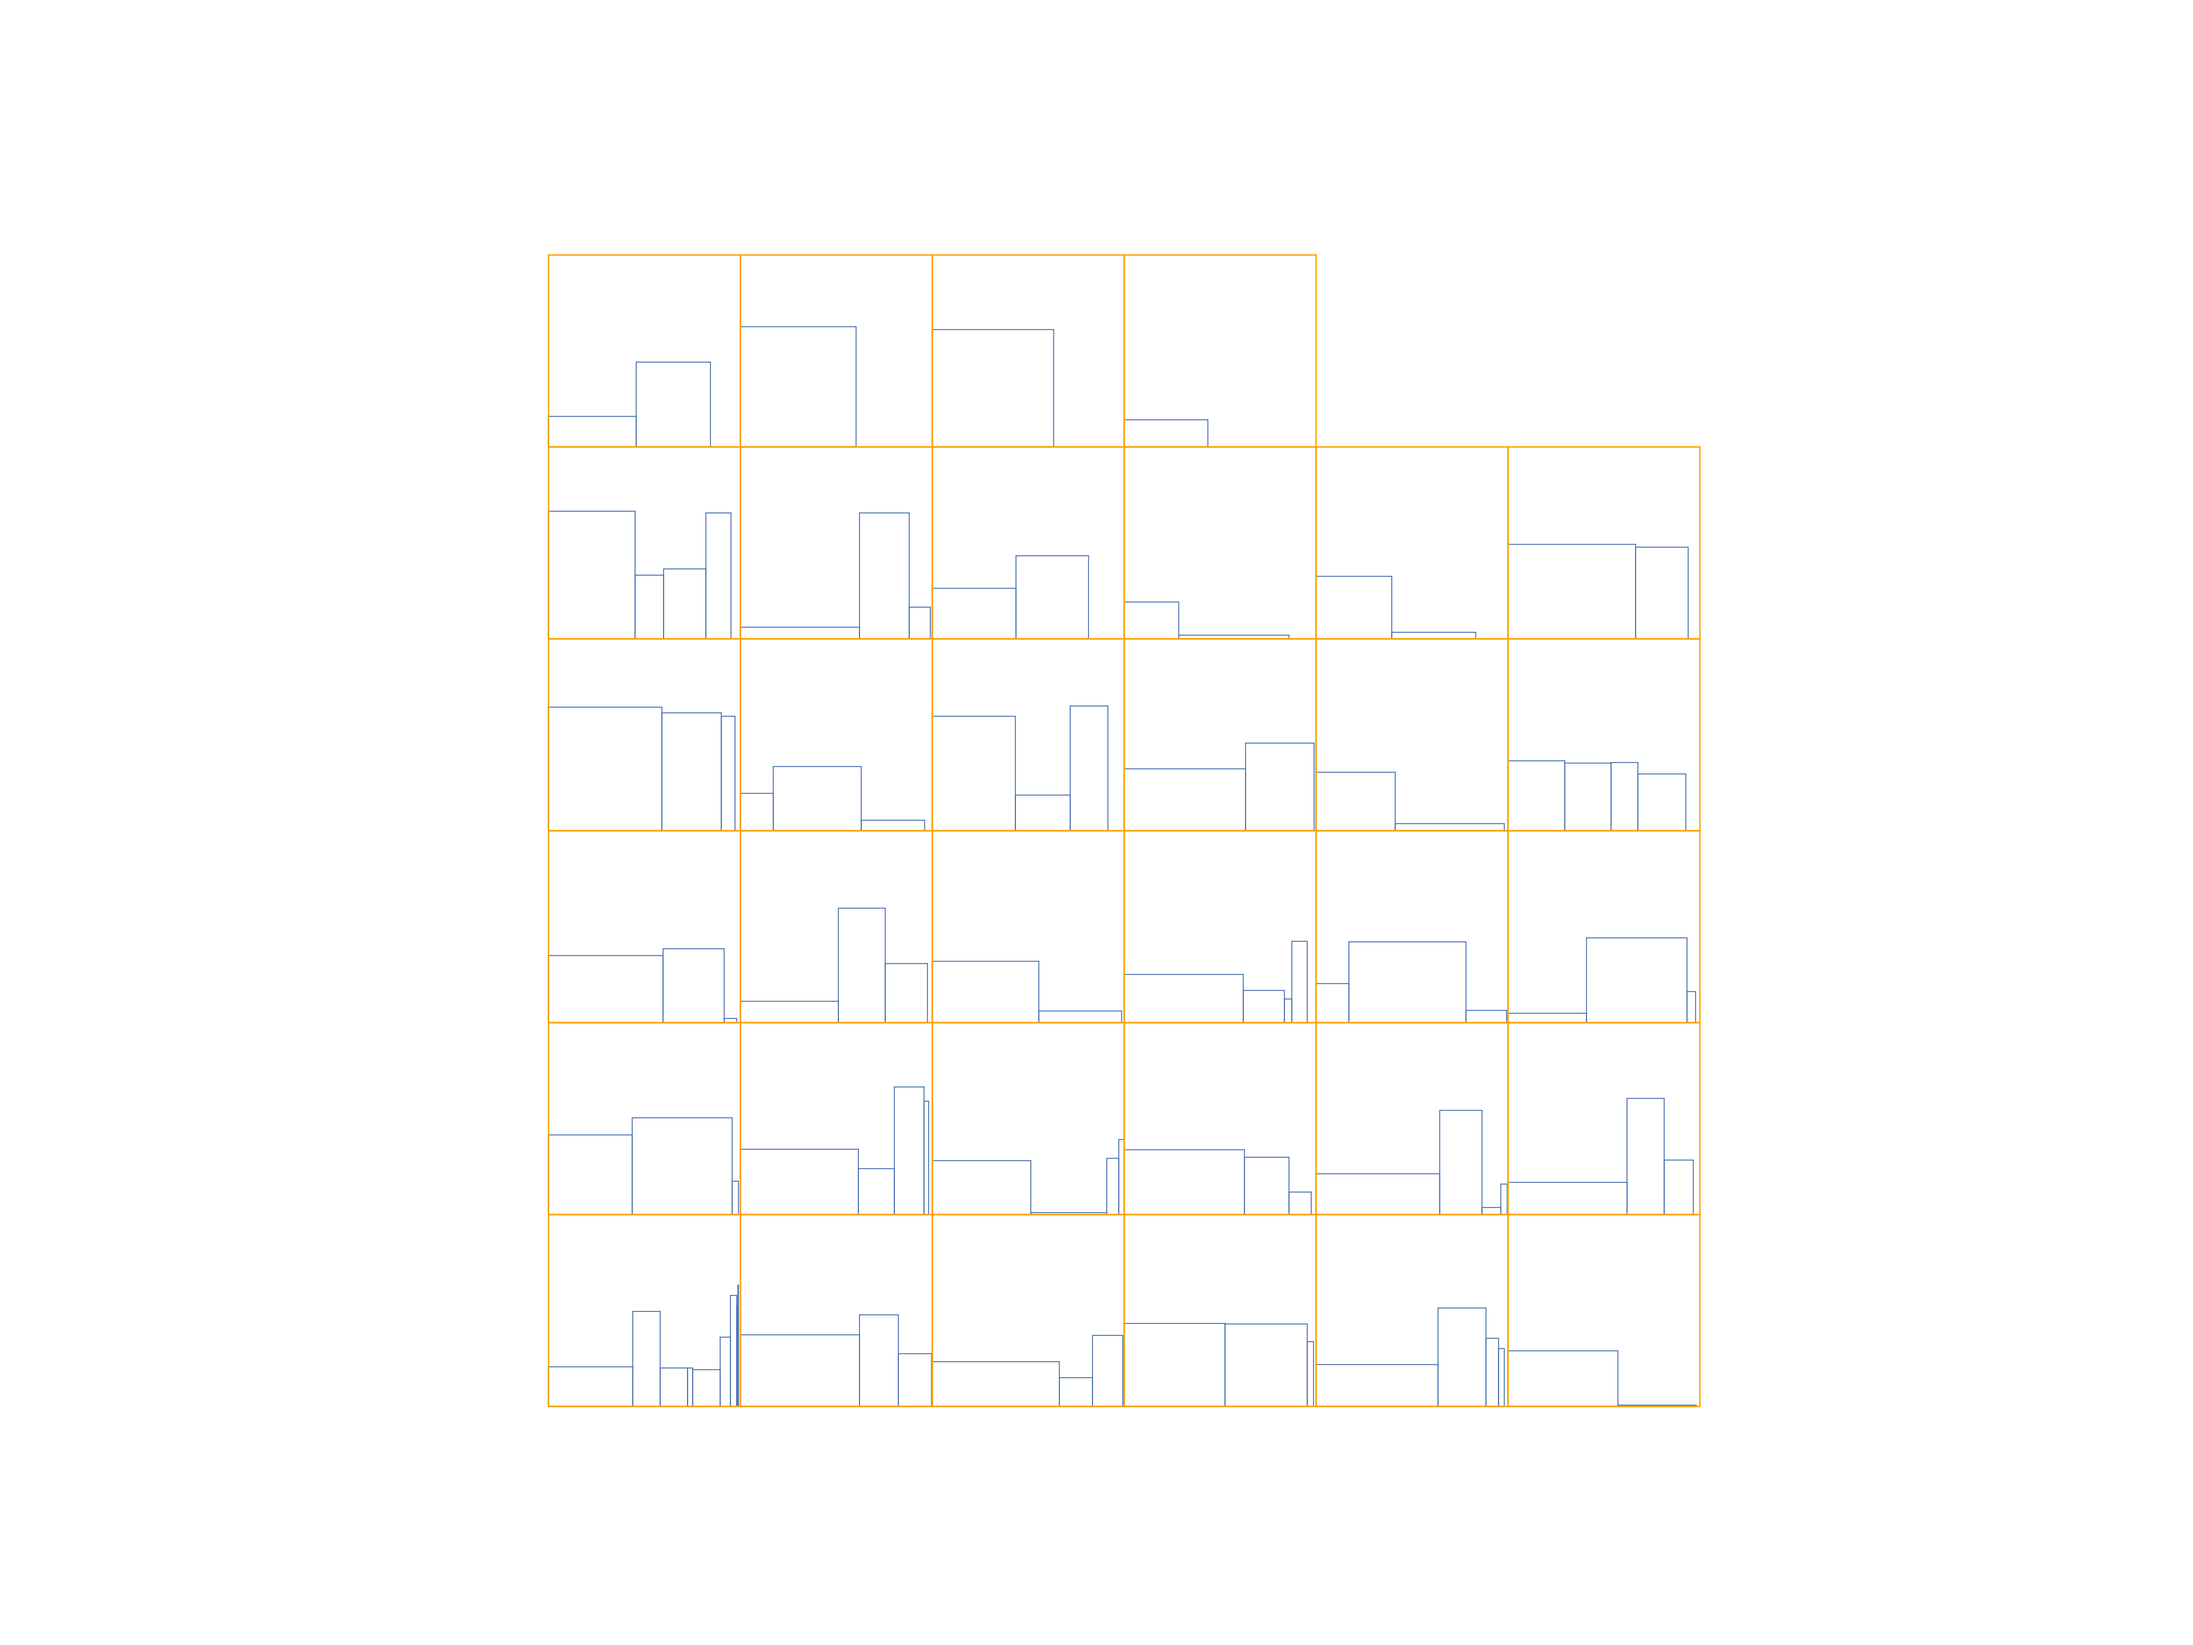
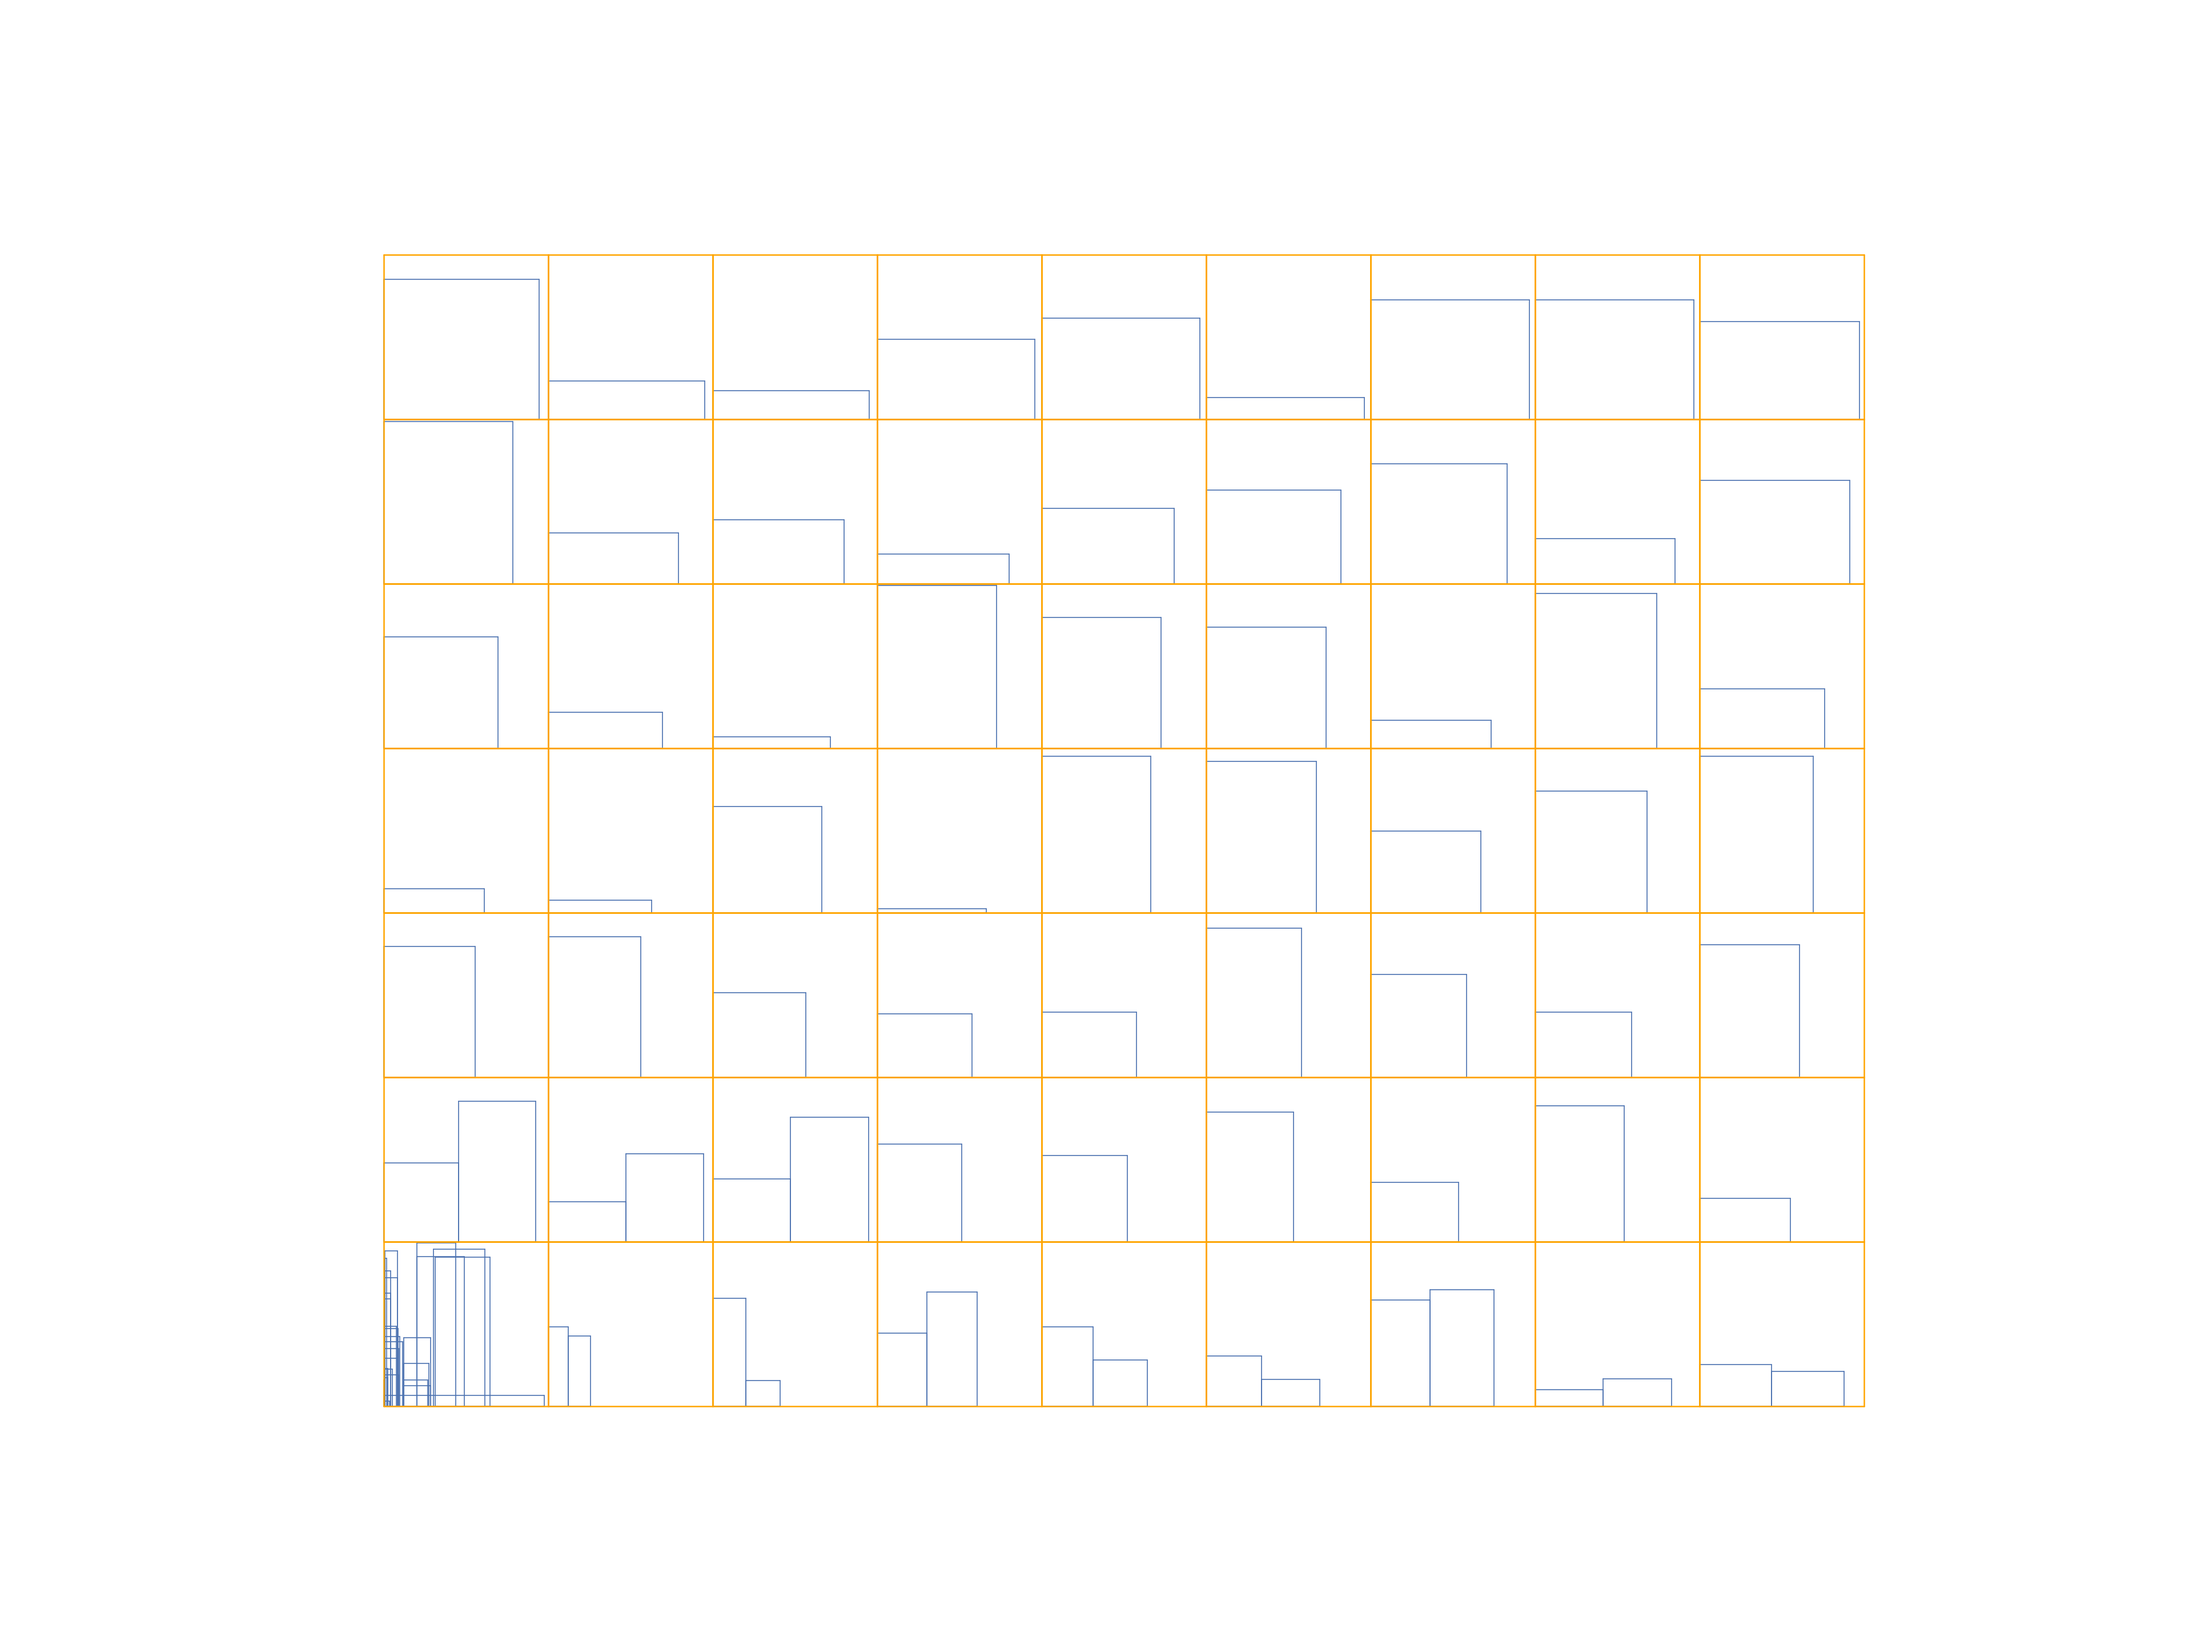
Moved WriteToFile into method of Grid.class for better usage.

diff --git a/src/algorithms/greedy/GreedyNumberOne.java b/src/algorithms/greedy/GreedyNumberOne.java
@@ -1,16 +1,17 @@
 package algorithms.greedy;
 
+import env.Box;
+import env.Coordinate;
 import env.Grid;
 import env.Rectangle;
-import org.w3c.dom.css.Rect;
+import gui.ScriptPython;
 
-import java.util.Collections;
-import java.util.HashMap;
+import java.util.Comparator;
 import java.util.LinkedList;
 
 public class GreedyNumberOne {
 
-    private final Grid instance;
+    private Grid instance;
     private LinkedList<Rectangle> lengthSortedList;
     private LinkedList<Rectangle> widthSortedList;
 
@@ -27,19 +28,65 @@ public class GreedyNumberOne {
 
     public GreedyNumberOne(Grid instance){
         this.instance = instance;
-        // this.lengthSortedList = this.instance.getObjects();
-        // this.widthSortedList = new LinkedList<Rectangle>(this.instance.getObjects().size());
+
+        this.instance.getObjects().sort(Comparator.comparingInt(Rectangle::getLength));
+        this.lengthSortedList = new LinkedList<>(this.instance.getObjects());
+
+        this.instance.getObjects().sort(Comparator.comparingInt(Rectangle::getWidth));
+        this.widthSortedList = new LinkedList<>(this.instance.getObjects());
     }
 
-    public void solve(){
+    public void solve() {
+
+        boolean flag = false;
+        boolean lengthFlag = false;
+        Rectangle actualRect;
+        Box newBox;
+
+        while(true){
+
+            newBox = new Box(instance.L, new Coordinate(0, 0));
+            lengthFlag = false;
+
+            while((!lengthSortedList.isEmpty()) & (!widthSortedList.isEmpty())){
+
+                if(!lengthFlag){
+                    actualRect = lengthSortedList.getFirst();
+                    try{
+                        flag = newBox.acquire(actualRect);
+                    } catch (CloneNotSupportedException clex){
+                        clex.printStackTrace();
+                    }
+                    if(flag){
+                        lengthSortedList.removeFirst();
+                        widthSortedList.remove(actualRect);
+                    } else{
+                        lengthFlag = true;
+                    }
+                } else{
+                    actualRect = widthSortedList.getFirst();
+                    try{
+                        flag = newBox.acquire(actualRect);
+                    } catch (CloneNotSupportedException clex){
+                        clex.printStackTrace();
+                    }
+                    if(flag){
+                        widthSortedList.removeFirst();
+                        lengthSortedList.remove(actualRect);
+                    } else{
+                        this.instance.getBoxes().add(newBox);
+                        break;
+                    }
+                }
+            }
+            if (lengthSortedList.isEmpty()){
+                if(widthSortedList.isEmpty()) {
+                    break;
+                }
+            }
+        }
 
         /*
-        Preparation (Can be moved to constructor)
-
-        Create two Lists. One for length ordering of rectangles - Another for width ordering of rectangles
-        List1 = Sort all rectangles by length ascending
-        List2 = Sort all rectangles by width ascending
-
         START Algorithm
             Create BOX
                 WHILE(TRUE):
@@ -48,22 +95,27 @@ public class GreedyNumberOne {
 
     }
 
-    public Grid getInstance() {
-        return instance;
-    }
-
 
     public static void main(String[] args){
 
-        Grid grid = new Grid();
+        Grid grid = new Grid(123);
 
-        grid.init(1000, 102, 1, 1000,
+        grid.init(1000, 100, 1, 1000,
                 1, 1000);
 
         GreedyNumberOne greed = new GreedyNumberOne(grid);
+        greed.solve();
+        greed.instance.tidyUpSingleThread();
 
+
+        greed.instance.writeDataToFiles();
+
+
+        ScriptPython.execVisualization();
 
     }
 }
+
+
 
 

diff --git a/src/Main.java b/src/Main.java
@@ -38,13 +38,11 @@ public class Main {
         System.out.println("##################################################");
         System.out.println("Proceed with writing files.");
         startTime = System.currentTimeMillis();
-        WriteToFile writer = new WriteToFile(grid.getObjects());
-        writer.write("data.csv");
 
-        // Write bounding box data to a file
-        ArrayList<Rectangle> boxList = new ArrayList<>(grid.getBoxes());
-        WriteToFile writer2 = new WriteToFile(boxList);
-        writer2.write("boxData.csv");
+
+        grid.writeDataToFiles();
+
+
         endTime = System.currentTimeMillis();
         System.out.println("File writing: DONE.");
         System.out.println("The writing took " + (endTime - startTime) + " milliseconds.");

diff --git a/src/env/Grid.java b/src/env/Grid.java
@@ -196,4 +196,14 @@ public class Grid {
             t.start();
         }
     }
+
+    public void writeDataToFiles(){
+        WriteToFile writer = new WriteToFile(objects);
+        writer.write("/Users/pw-home/IdeaProjects/Optimierungsalgorithmen/data.csv");
+
+        // Write bounding box data to a file
+        ArrayList<Rectangle> boxList = new ArrayList<>(this.boxes);
+        WriteToFile writer2 = new WriteToFile(boxList);
+        writer2.write("/Users/pw-home/IdeaProjects/Optimierungsalgorithmen/boxData.csv");
+    }
 }

diff --git a/src/env/WriteToFile.java b/src/env/WriteToFile.java
@@ -1,4 +1,4 @@
-import env.Rectangle;
+package env;
 
 import java.io.BufferedWriter;
 import java.io.FileWriter;
